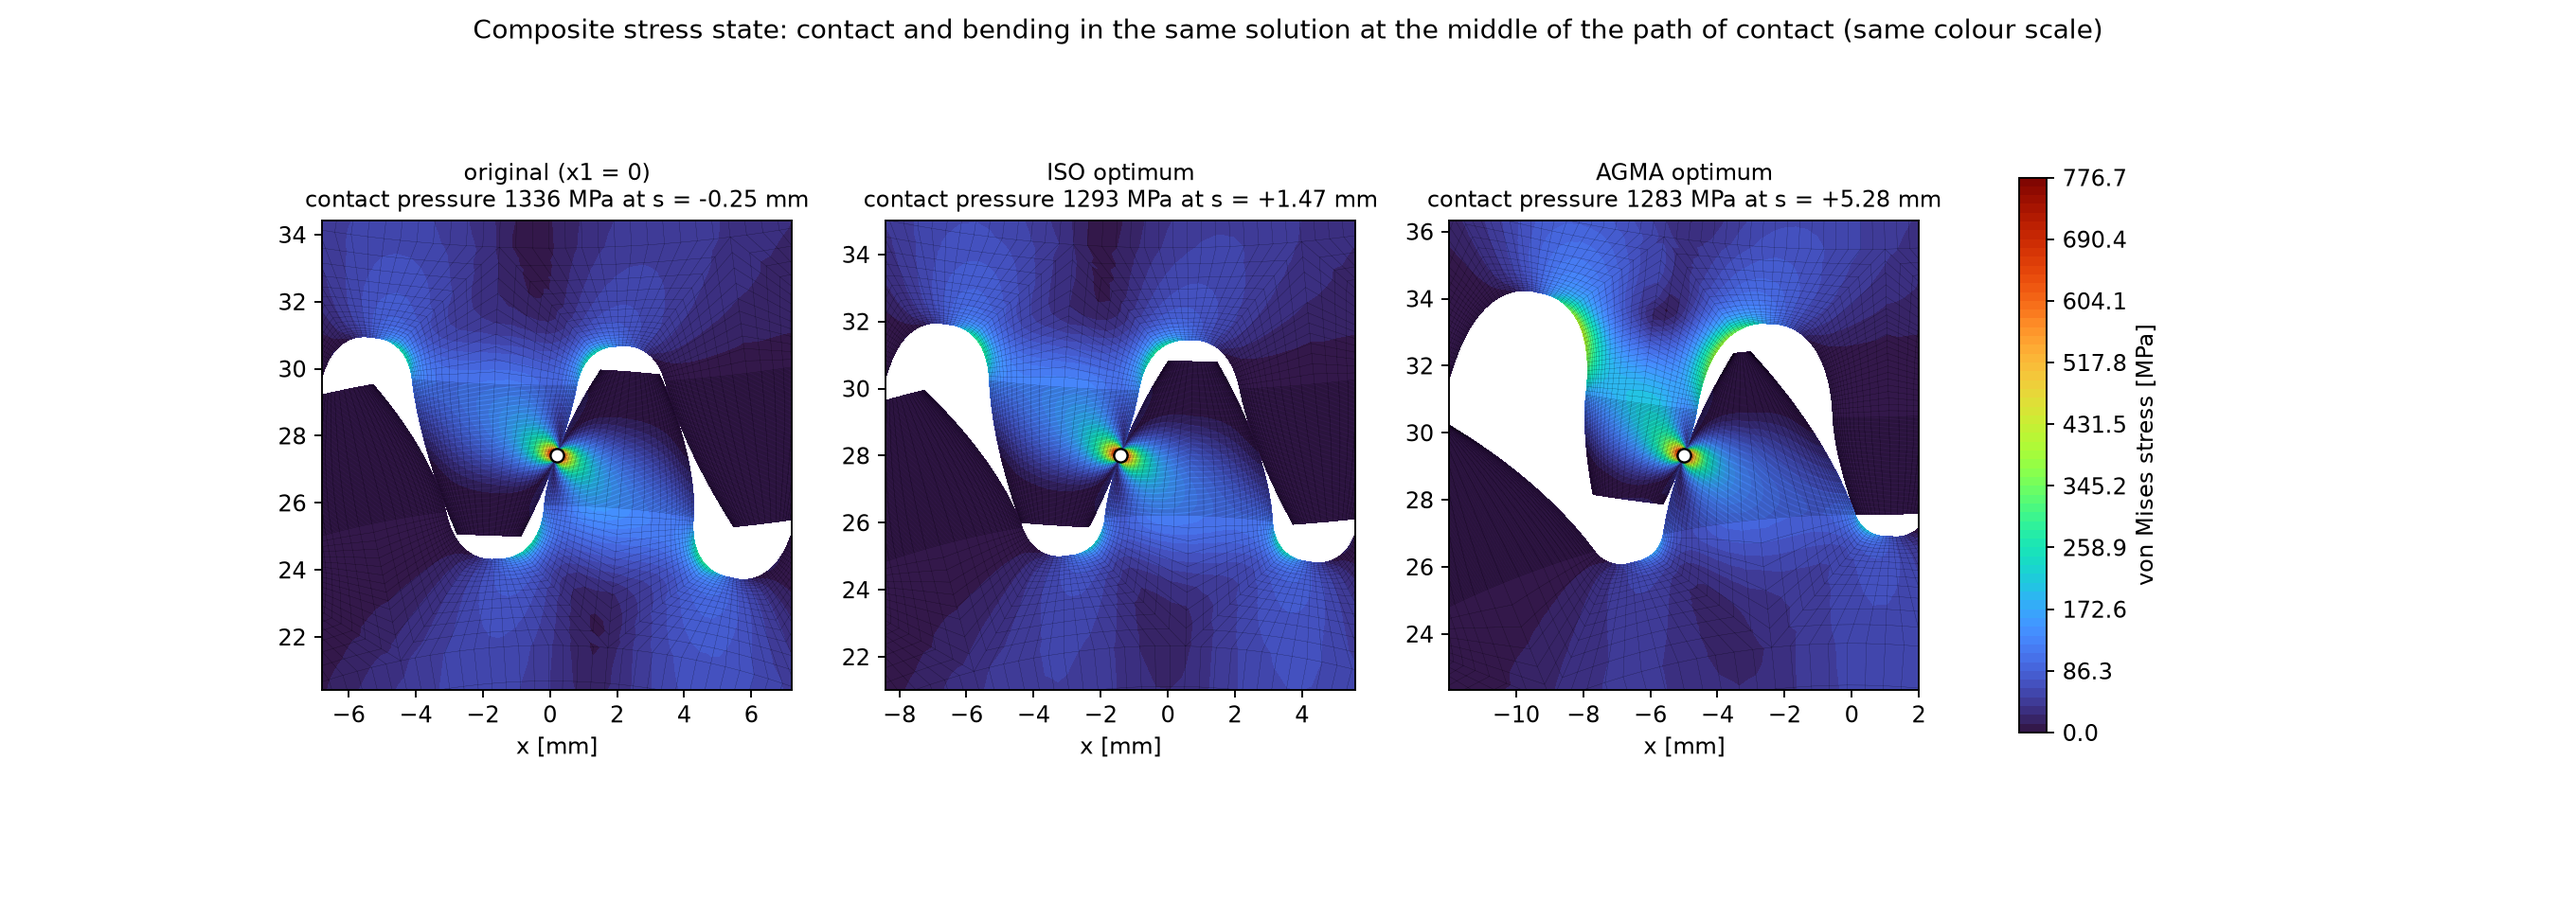
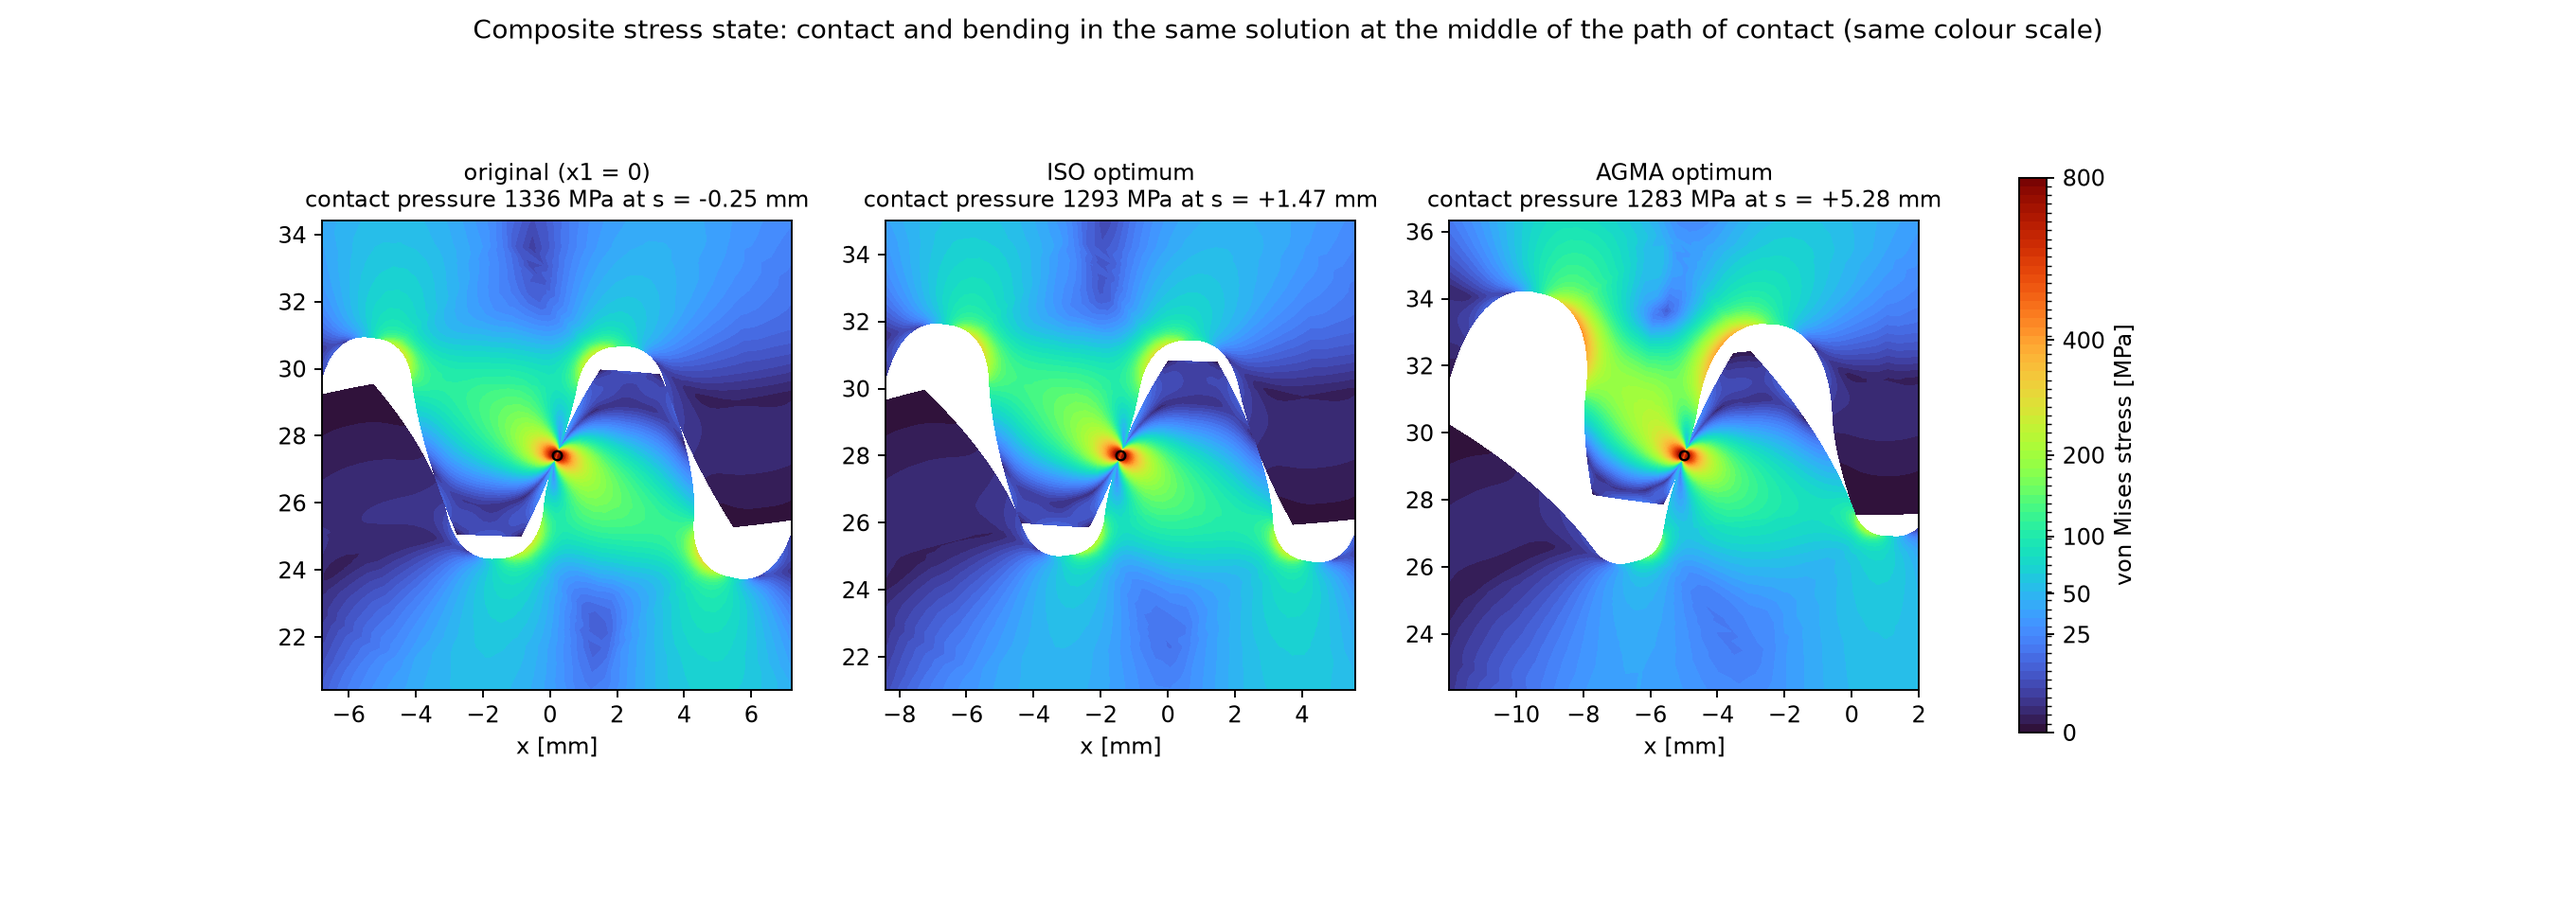
docs: use a quadratic stress scale and small contact markers in the optimization figures (#19)

diff --git a/docs/figures/optimization_case_study.py b/docs/figures/optimization_case_study.py
@@ -151,6 +151,32 @@ def _solved(pairs: dict[str, Transmission], cache: Path) -> dict:
     return points
 
 
+STRESS_TOP = 800.0  # MPa
+STRESS_TICKS = [0, 25, 50, 100, 200, 400, 800]
+
+
+def _draw_stress(ax, point):
+    """Von Mises map with a quadratic colour scale: the bending field stays readable.
+
+    The contact peaks are an order of magnitude above the root stresses, so a linear scale
+    paints the whole tooth blue. Colours are spaced by level index; levels grow quadratically.
+    """
+    import numpy as np
+    from matplotlib.colors import BoundaryNorm
+
+    triangulation, values = point.stress("von_mises")
+    levels = STRESS_TOP * np.linspace(0, 1, 64) ** 2
+    contour = ax.tricontourf(
+        triangulation,
+        np.clip(values, 0, STRESS_TOP),
+        levels=levels,
+        cmap="turbo",
+        norm=BoundaryNorm(levels, 256),
+    )
+    ax.set_aspect("equal")
+    return contour
+
+
 def animation(pairs: dict[str, Transmission], cache: Path, out: Path) -> None:
     """Animate the composite von Mises state of the three designs along the path of contact.
 
@@ -160,11 +186,10 @@ def animation(pairs: dict[str, Transmission], cache: Path, out: Path) -> None:
     import numpy as np
     from matplotlib.animation import PillowWriter
 
-    from gearbox.fem.post import plot_field, plot_line_of_action
+    from gearbox.fem.post import plot_line_of_action
 
     points = _solved(pairs, cache)
     out.mkdir(parents=True, exist_ok=True)
-    top = 800.0  # MPa, fixed colour scale for every frame and design
     # One fixed view, as in the pair animations of the guide: the gears turn and the contact
     # runs along the path A-E. It is wide enough for the contact of every frame of every design.
     contacts = np.array([p.followed.point for series in points.values() for p in series])
@@ -179,15 +204,13 @@ def animation(pairs: dict[str, Transmission], cache: Path, out: Path) -> None:
             for ax, (name, series) in zip(axes, points.items(), strict=True):
                 ax.clear()
                 p = series[i]
-                contour = plot_field(ax, p.stress("von_mises"), vmax=top, edges=False)
+                contour = _draw_stress(ax, p)
                 ax.set(xlim=(low[0], high[0]), ylim=(low[1], high[1]))
-                plot_line_of_action(
-                    ax,
-                    LineOfAction.of(pairs[name]),
-                    p.followed.point,
-                    labels=False,
-                    others=[q.point for q in p.patches if q is not p.followed],
-                )
+                plot_line_of_action(ax, LineOfAction.of(pairs[name]), labels=False)
+                ax.plot(*p.followed.point, "o", mfc="none", mec="k", ms=4, mew=1)
+                for q in p.patches:
+                    if q is not p.followed:
+                        ax.plot(*q.point, "o", mfc="none", mec="0.35", ms=3, mew=0.8)
                 ax.set_xticks([])
                 ax.set_yticks([])
                 note = "\nsecond pair in tip-edge contact" if _edge_contact(p) else ""
@@ -197,7 +220,9 @@ def animation(pairs: dict[str, Transmission], cache: Path, out: Path) -> None:
                     fontsize=9,
                 )
             colour_axis.clear()
-            fig.colorbar(contour, cax=colour_axis, label="von Mises stress [MPa]")
+            fig.colorbar(
+                contour, cax=colour_axis, ticks=STRESS_TICKS, label="von Mises stress [MPa]"
+            )
             fig.suptitle(
                 f"Composite stress state along the path of contact (magenta A-E), "
                 f"sample {i + 1}/{POSITIONS}"
@@ -213,8 +238,6 @@ def figures(pairs: dict[str, Transmission], cache: Path, out: Path) -> None:
     """
     import matplotlib.pyplot as plt
     import numpy as np
-
-    from gearbox.fem.post import plot_field
 
     points = _solved(pairs, cache)
     force = pairs["baseline"].nominal_tangential_force
@@ -273,20 +296,21 @@ def figures(pairs: dict[str, Transmission], cache: Path, out: Path) -> None:
     for name, p in peaks.items():
         centre = np.asarray(p.followed.point)
         windows[name] = (centre, np.linalg.norm(p.nodes - centre, axis=1) < 7.0)
-    vmax = max(float(np.nanmax(p.von_mises[windows[n][1]])) for n, p in peaks.items())
     fig, axes = plt.subplots(1, 3, figsize=(16, 5.6))
     contour = None
     for ax, (name, p) in zip(axes, peaks.items(), strict=True):
         centre = windows[name][0]
-        contour = plot_field(ax, p.stress("von_mises"), vmax=vmax, edge_width=0.1)
-        ax.plot(*centre, "o", mfc="white", mec="k", ms=6)
+        contour = _draw_stress(ax, p)
+        ax.plot(*centre, "o", mfc="none", mec="k", ms=4, mew=1)
         ax.set(xlim=(centre[0] - 7, centre[0] + 7), ylim=(centre[1] - 7, centre[1] + 7))
         ax.set_title(
             f"{LABELS[name][0]}\ncontact pressure {p.followed.pressure:.0f} MPa at s = {p.position:+.2f} mm",
             fontsize=10,
         )
         ax.set_xlabel("x [mm]")
-    fig.colorbar(contour, ax=list(axes), shrink=0.8, label="von Mises stress [MPa]")
+    fig.colorbar(
+        contour, ax=list(axes), shrink=0.8, ticks=STRESS_TICKS, label="von Mises stress [MPa]"
+    )
     fig.suptitle(
         "Composite stress state: contact and bending in the same solution at the middle of the path of contact (same colour scale)"
     )

diff --git a/docs/optimization.md b/docs/optimization.md
@@ -192,13 +192,15 @@ follows it along the whole path.
 ```{figure} figures/optimization/composite_maps.png
 :alt: Von Mises stress maps of the three designs at the middle of the path of contact.
 
-Von Mises stress at the middle of each path of contact, same colour scale.
+Von Mises stress at the middle of each path of contact. The colour scale is quadratic, so the
+root stresses stay readable next to the much larger contact peaks.
 ```
 
 ```{figure} figures/optimization/path_animation.gif
 :alt: Animation of the von Mises stress of the three designs along the path of contact.
 
-Von Mises stress as the teeth turn through the mesh, one frame per FEM position; the magenta line is the path of contact A-E.
+Von Mises stress as the teeth turn through the mesh, one frame per FEM position; the magenta line is the path of contact A-E,
+and the colour scale is the same quadratic one.
 ```
 
 This is a demonstration of the tools, not a research study. The FEM model is 2D plane strain
